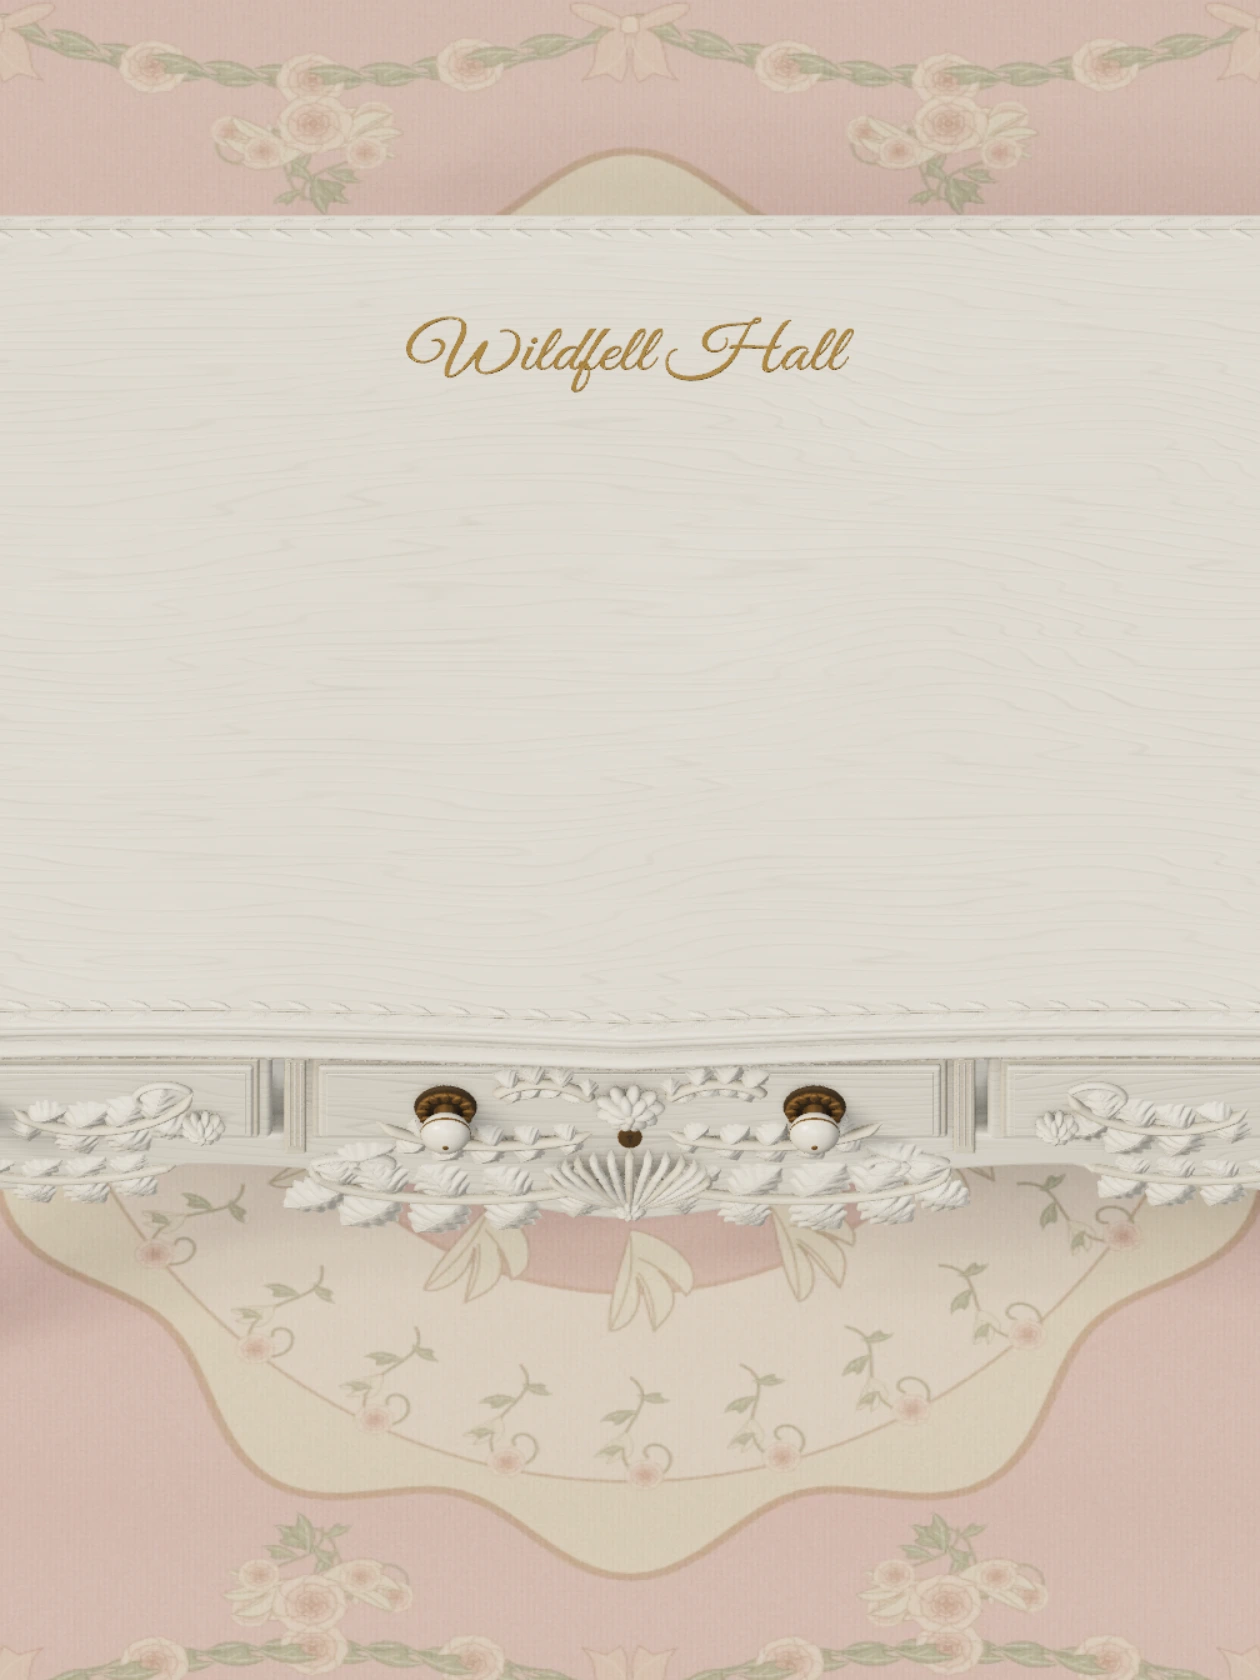
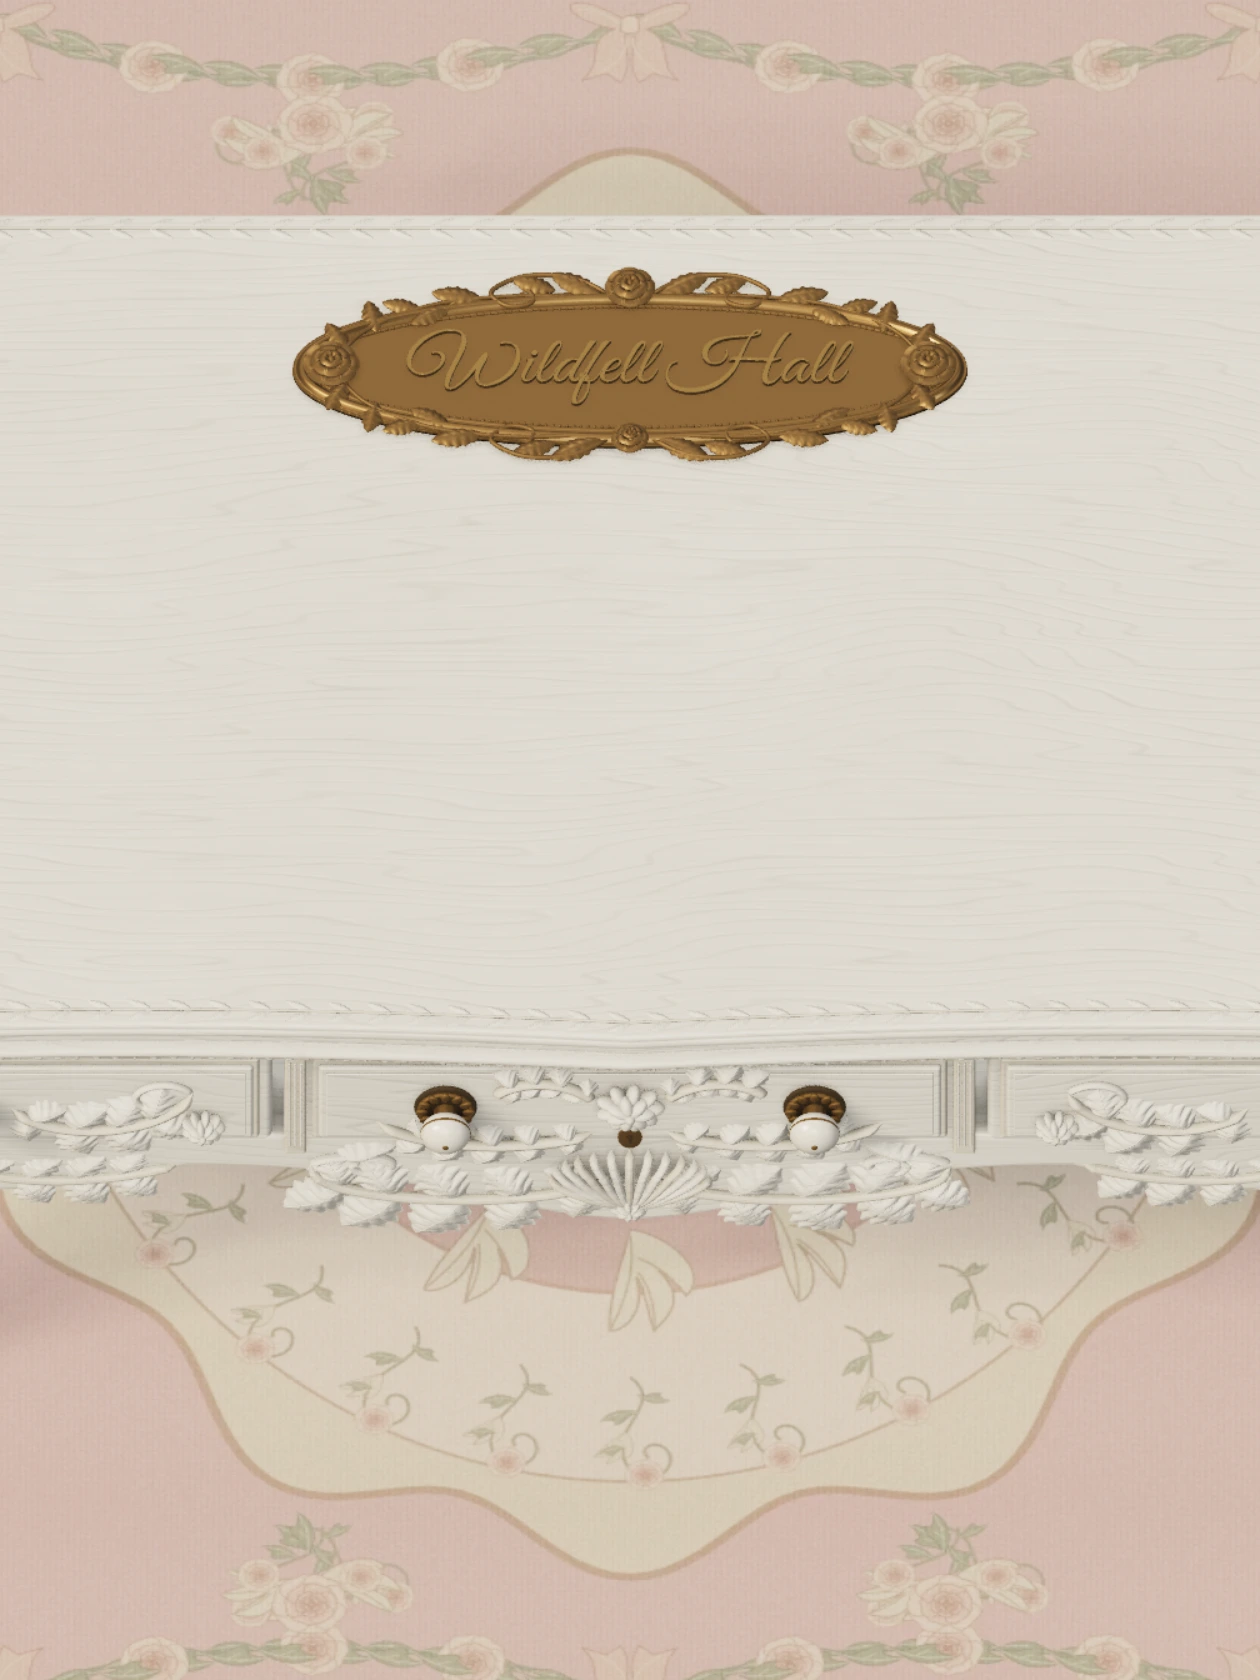
Add an embossed floral brass crest to the writing desk

Changed region(s): [[0.2167, 0.1548, 0.7738, 0.2786]]

diff --git a/src/name-crest.js b/src/name-crest.js
@@ -1,0 +1,187 @@
+import * as THREE from 'three';
+import { mergeGeometries } from 'three/addons/utils/BufferGeometryUtils.js';
+
+// All of the metalwork is modelled in the plaque's plane, with +Z facing out.
+// The containing group places this plane flat on the writing surface.
+function ovalMolding(rx, ry) {
+  const profile = [[-.057, .032], [-.057, .059], [-.043, .071], [-.030, .064],
+    [-.016, .055], [0, .069], [.018, .093], [.038, .098], [.060, .080],
+    [.073, .056], [.083, .048], [.091, .055], [.100, .050], [.102, .023]];
+  const segments = 320, positions = [], uv = [], indices = [], n = profile.length;
+  for (let i = 0; i < segments; i++) {
+    const angle = i / segments * Math.PI * 2, c = Math.cos(angle), s = Math.sin(angle);
+    const normal = new THREE.Vector2(c / rx, s / ry).normalize();
+    for (let j = 0; j < n; j++) {
+      const [offset, z] = profile[j], x = rx * c + normal.x * offset, y = ry * s + normal.y * offset;
+      positions.push(x, y, z); uv.push(x * 2, y * 2);
+      const a = i * n + j, b = (i + 1) % segments * n + j;
+      const d = (i + 1) % segments * n + (j + 1) % n, e = i * n + (j + 1) % n;
+      indices.push(a, e, b, b, e, d);
+    }
+  }
+  const geometry = new THREE.BufferGeometry();
+  geometry.setAttribute('position', new THREE.Float32BufferAttribute(positions, 3));
+  geometry.setAttribute('uv', new THREE.Float32BufferAttribute(uv, 2));
+  geometry.setIndex(indices); geometry.computeVertexNormals();
+  return geometry;
+}
+
+// Close both sides of the curled petals and leaves. Their turned edges have
+// actual thickness, so oblique views never reveal a missing back face.
+function reliefSurface(rows, columns, surface, thickness) {
+  const positions = [], uv = [], indices = [];
+  for (let i = 0; i <= rows; i++) for (let j = 0; j <= columns; j++) {
+    const t = (i + .01) / (rows + .02), s = j / columns * 2 - 1;
+    positions.push(...surface(t, s)); uv.push(t, j / columns);
+  }
+  const count = positions.length / 3;
+  for (let i = 0; i < count; i++) {
+    positions.push(positions[i * 3], positions[i * 3 + 1], positions[i * 3 + 2] - thickness);
+    uv.push(uv[i * 2], uv[i * 2 + 1]);
+  }
+  for (let i = 0; i < rows; i++) for (let j = 0; j < columns; j++) {
+    const a = i * (columns + 1) + j, b = a + columns + 1;
+    indices.push(a, b, a + 1, b, b + 1, a + 1,
+      a + count, a + 1 + count, b + count, b + count, a + 1 + count, b + 1 + count);
+  }
+  const edge = [];
+  for (let i = 0; i <= rows; i++) edge.push(i * (columns + 1));
+  for (let j = 1; j <= columns; j++) edge.push(rows * (columns + 1) + j);
+  for (let i = rows - 1; i >= 0; i--) edge.push(i * (columns + 1) + columns);
+  for (let j = columns - 1; j > 0; j--) edge.push(j);
+  // Keep the lip normals separate from the two broad surfaces. Averaging
+  // opposite faces through a thin edge would turn highlights inside out.
+  const wall = positions.length / 3;
+  for (const vertex of edge) for (const offset of [0, count]) {
+    const i = vertex + offset;
+    positions.push(positions[i * 3], positions[i * 3 + 1], positions[i * 3 + 2]);
+    uv.push(uv[i * 2], uv[i * 2 + 1]);
+  }
+  for (let i = 0; i < edge.length; i++) {
+    const a = wall + i * 2, b = wall + (i + 1) % edge.length * 2;
+    indices.push(a, a + 1, b, b, a + 1, b + 1);
+  }
+  const geometry = new THREE.BufferGeometry();
+  geometry.setAttribute('position', new THREE.Float32BufferAttribute(positions, 3));
+  geometry.setAttribute('uv', new THREE.Float32BufferAttribute(uv, 2));
+  geometry.setIndex(indices); geometry.computeVertexNormals();
+  return geometry;
+}
+
+function leafGeometry(length, width) {
+  return reliefSurface(28, 14, (t, s) => {
+    const envelope = Math.pow(Math.sin(Math.PI * t), .75);
+    const lobes = 1 + .09 * Math.sin(t * Math.PI * 12);
+    const shoulder = Math.pow(1 - s * s, 1.2);
+    let veins = 0;
+    for (const fork of [.22, .40, .58, .74]) veins += Math.exp(-Math.pow((t - fork - Math.abs(s) * .17) / .025, 2));
+    const z = .032 * envelope * shoulder + .008 * Math.pow(t, 3)
+      - .004 * veins * Math.sin(Math.PI * Math.abs(s)) * envelope * shoulder;
+    return [t * length, s * width * envelope * lobes, z];
+  }, .009);
+}
+
+function workedMetal() {
+  const pixels = new Uint8Array(256 * 128 * 4); let seed = 1873;
+  for (let y = 0; y < 128; y++) for (let x = 0; x < 256; x++) {
+    seed = (Math.imul(seed, 1664525) + 1013904223) >>> 0;
+    const value = 189 + (seed / 4294967296 - .5) * 18 + Math.sin(x * .1 + y * .3) * 3;
+    pixels.set([value, value, value, 255], (y * 256 + x) * 4);
+  }
+  const texture = new THREE.DataTexture(pixels, 256, 128);
+  texture.wrapS = texture.wrapT = THREE.RepeatWrapping;
+  texture.minFilter = THREE.LinearMipmapLinearFilter; texture.magFilter = THREE.LinearFilter;
+  texture.generateMipmaps = true; texture.needsUpdate = true;
+  return texture;
+}
+
+export function createNameCrestMetalwork(brass) {
+  const group = new THREE.Group(); group.name = 'oval-floral-name-crest';
+  // Match the desk hardware's alloy; only the surface finish varies between
+  // the satin field, cast foliage, and lightly burnished rims and letter faces.
+  const texture = workedMetal(), cast = brass.clone();
+  cast.roughnessMap = cast.bumpMap = texture; cast.roughness = .55; cast.bumpScale = .00055;
+  const satin = cast.clone(); satin.roughness = .79;
+  const burnished = cast.clone(); burnished.roughness = .40;
+  function mesh(geometry, material, name) {
+    const object = new THREE.Mesh(geometry, material); object.name = name;
+    object.castShadow = object.receiveShadow = true; group.add(object); return object;
+  }
+  const oval = new THREE.Shape(); oval.absellipse(0, 0, 2.40, .66, 0, Math.PI * 2, false);
+  mesh(new THREE.ExtrudeGeometry(oval, { depth: .041, bevelEnabled: true, bevelSize: .012,
+    bevelThickness: .010, bevelSegments: 5, curveSegments: 120 }), satin, 'solid-oval-plaque');
+  mesh(ovalMolding(2.35, .61), burnished, 'continuous-oval-molding');
+
+  const foliage = [], flowers = [];
+  function add(geometry, x = 0, y = 0, z = .064, angle = 0, batch = foliage) {
+    geometry.rotateZ(angle); geometry.translate(x, y, z);
+    if (geometry.index) { const flat = geometry.toNonIndexed(); geometry.dispose(); geometry = flat; }
+    const p = geometry.attributes.position, uv = geometry.attributes.uv;
+    for (let i = 0; i < p.count; i++) uv.setXY(i, p.getX(i) * 2, p.getY(i) * 2);
+    batch.push(geometry);
+  }
+  function leaf(x, y, angle, length, width, sx, sy) {
+    add(leafGeometry(length, width), sx * x, sy * y, .073,
+      Math.atan2(sy * Math.sin(angle), sx * Math.cos(angle)));
+  }
+  function scroll(points, sx, sy, radius = .019) {
+    const curve = new THREE.CatmullRomCurve3(points.map(([x, y, z = .079]) => new THREE.Vector3(x * sx, y * sy, z)));
+    const geometry = new THREE.TubeGeometry(curve, 72, radius, 10, false), p = geometry.attributes.position;
+    // Tuck the tapered endpoints into the casting, avoiding blunt wire ends.
+    for (let row = 0; row <= 72; row++) {
+      const t = row / 72, center = curve.getPointAt(t);
+      const taper = .18 + .82 * THREE.MathUtils.smoothstep(t, 0, .07) * THREE.MathUtils.smoothstep(1 - t, 0, .08);
+      for (let col = 0; col <= 10; col++) {
+        const i = row * 11 + col;
+        p.setXYZ(i, center.x + (p.getX(i) - center.x) * taper, center.y + (p.getY(i) - center.y) * taper,
+          center.z + (p.getZ(i) - center.z) * taper - radius * (1 - taper));
+      }
+    }
+    geometry.computeVertexNormals(); add(geometry, 0, 0, 0);
+  }
+  function rose(x, y, radius) {
+    // Overlapping cupped petals turn outward at the lip; concentric offsets
+    // open a shadowed centre instead of piling ellipsoids into a rosette.
+    for (const [count, inner, outer, z, lift] of [[8, .38, 1, .012, .043], [6, .16, .72, .041, .054], [5, .035, .40, .071, .052]]) {
+      for (let i = 0; i < count; i++) {
+        const angle = i * Math.PI * 2 / count + outer * 2.4;
+        const petal = reliefSurface(16, 20, (t, s) => {
+          const a = angle + s * Math.PI / count * 1.24 * (.48 + .52 * Math.sin(t * Math.PI / 2));
+          const r = radius * (inner + (outer - inner) * t) * (1 - .09 * Math.pow(Math.abs(s), 3));
+          return [Math.cos(a) * r, Math.sin(a) * r,
+            z + lift * Math.sin(t * Math.PI * .85) + .016 * Math.pow(t, 5) + .012 * Math.pow(Math.abs(s), 4) * Math.sin(t * Math.PI)];
+        }, .008);
+        add(petal, x, y, .065, 0, flowers);
+      }
+    }
+    const bud = new THREE.SphereGeometry(1, 20, 12); bud.scale(radius * .12, radius * .15, .026);
+    add(bud, x, y, .166, .3, flowers);
+  }
+  for (const sx of [-1, 1]) for (const sy of [-1, 1]) {
+    scroll([[.13, .65], [.42, .81], [.79, .82], [1.01, .67], [.88, .55], [.70, .60], [.74, .69], [.83, .66]], sx, sy);
+    scroll([[.32, .64], [.92, .64], [1.48, .55], [1.92, .33], [2.12, .10]], sx, sy, .016);
+    leaf(.20, .65, .49, .43, .087, sx, sy);
+    leaf(.54, .70, .32, .34, .077, sx, sy);
+    leaf(1.06, .61, .18, .39, .085, sx, sy);
+    leaf(1.30, .56, -.53, .34, .075, sx, sy);
+    leaf(1.50, .51, .26, .31, .069, sx, sy);
+    leaf(1.84, .32, 1.35, .29, .074, sx, sy);
+    leaf(2.05, .14, 1.03, .30, .078, sx, sy);
+  }
+  rose(0, .70, .185); rose(0, -.68, .137);
+  for (const sx of [-1, 1]) rose(sx * 2.17, 0, .205);
+  mesh(mergeGeometries(foliage), cast, 'rose-leaves-and-scrolled-stems');
+  mesh(mergeGeometries(flowers), cast, 'layered-cast-rose-petals');
+  [...foliage, ...flowers].forEach(geometry => geometry.dispose());
+
+  const beads = new THREE.InstancedMesh(new THREE.SphereGeometry(.012, 10, 8), burnished, 192);
+  beads.name = 'oval-pearl-fillet'; beads.castShadow = beads.receiveShadow = true;
+  const outline = new THREE.EllipseCurve(0, 0, 2.29, .55), matrix = new THREE.Matrix4();
+  // Arc-length spacing avoids crowded beads at the pointed ends of the oval.
+  for (let i = 0; i < beads.count; i++) {
+    const p = outline.getPointAt(i / beads.count);
+    matrix.makeTranslation(p.x, p.y, .066); beads.setMatrixAt(i, matrix);
+  }
+  group.add(beads);
+  return group;
+}

diff --git a/src/ornaments.js b/src/ornaments.js
@@ -2,58 +2,31 @@ import * as THREE from 'three';
 import { SVGLoader } from 'three/addons/loaders/SVGLoader.js';
 import { mergeGeometries } from 'three/addons/utils/BufferGeometryUtils.js';
 import { desktopOutline, perimeterFrame, legProfile } from './furniture-profiles.js';
+import { createNameCrestMetalwork } from './name-crest.js';
 
-function giltFinish() {
-  const w = 512, h = 128, colour = new Uint8Array(w * h * 4), roughness = new Uint8Array(w * h * 4), relief = new Uint8Array(w * h * 4);
-  let seed = 1848;
-  const random = () => { seed = (Math.imul(seed, 1664525) + 1013904223) >>> 0; return seed / 4294967296; };
-  for (let y = 0; y < h; y++) for (let x = 0; x < w; x++) {
-    const i = (y * w + x) * 4, n = random() - .5;
-    const burnish = Math.sin(x * .13 + Math.sin(y * .09)) * 2 + Math.sin(y * .3) * 1.6;
-    const join = x % 93 === 0 ? 5 : 0;
-    colour.set([204 + n * 9 + burnish - join, 163 + n * 8 + burnish - join, 83 + n * 6 + burnish - join, 255], i);
-    roughness.set([130 + n * 30 + join, 130 + n * 30 + join, 130 + n * 30 + join, 255], i);
-    relief.set([128 + n * 22 + burnish, 128 + n * 22 + burnish, 128 + n * 22 + burnish, 255], i);
-  }
-  const textures = [colour, roughness, relief].map(data => {
-    const texture = new THREE.DataTexture(data, w, h);
-    texture.wrapS = texture.wrapT = THREE.RepeatWrapping;
-    texture.minFilter = THREE.LinearMipmapLinearFilter; texture.magFilter = THREE.LinearFilter;
-    texture.generateMipmaps = true; texture.needsUpdate = true;
-    return texture;
-  });
-  textures[0].colorSpace = THREE.SRGBColorSpace;
-  return textures;
-}
-
-export async function createEmbossing(surfaceY) {
+export async function createEmbossing(surfaceY, brass) {
   const svg = await new SVGLoader().loadAsync(`${import.meta.env.BASE_URL}ornaments/wildfell-hall.svg`);
   const geometry = new THREE.ExtrudeGeometry(svg.paths.flatMap(path => SVGLoader.createShapes(path)), {
-    depth: 1.7, bevelEnabled: true, bevelThickness: .65, bevelSize: .62, bevelSegments: 5, curveSegments: 24,
+    depth: 4, bevelEnabled: true, bevelThickness: 1, bevelSize: .62, bevelSegments: 5, curveSegments: 24,
   });
   geometry.computeBoundingBox();
   const box = geometry.boundingBox, center = box.getCenter(new THREE.Vector3());
   const scale = 3.25 / (box.max.x - box.min.x);
   geometry.translate(-center.x, -center.y, 0);
-  geometry.scale(scale, -scale, scale);
-  reverseWinding(geometry);
-  geometry.rotateX(-Math.PI / 2);
-  geometry.computeVertexNormals();
-  geometry.computeBoundingBox();
-  const extents = geometry.boundingBox, positions = geometry.attributes.position, uv = geometry.attributes.uv;
-  for (let i = 0; i < positions.count; i++) uv.setXY(i,
-    (positions.getX(i) - extents.min.x) / (extents.max.x - extents.min.x),
-    (positions.getZ(i) - extents.min.z) / (extents.max.z - extents.min.z));
-  const [map, roughnessMap, bumpMap] = giltFinish();
-  const face = new THREE.MeshStandardMaterial({ map, roughnessMap, bumpMap, bumpScale: .0006, metalness: .92, roughness: .72, envMapIntensity: 1.15 });
-  const bevel = new THREE.MeshStandardMaterial({ color: '#a77d3c', metalness: .9, roughness: .32, envMapIntensity: 1.05 });
+  geometry.scale(scale, -scale, .022 / 4);
+  reverseWinding(geometry); geometry.computeVertexNormals();
+  const face = brass.clone(); face.color.set('#c9a259'); face.metalness = .92; face.roughness = .34;
+  const bevel = brass.clone(); bevel.roughness = .31;
   const lettering = new THREE.Mesh(geometry, [face, bevel]);
-  // The lower bevel beds into the timber; only the thin gilded crown rises
-  // above the surface. No duplicate outline or floating backing plate.
-  lettering.position.set(0, surfaceY + .0004, -2.52);
+  lettering.position.z = .052;
   lettering.name = 'burnished-gold-script-with-beveled-edges';
   lettering.castShadow = lettering.receiveShadow = true;
-  return lettering;
+  const crest = createNameCrestMetalwork(brass);
+  crest.add(lettering); crest.rotation.x = -Math.PI / 2;
+  // Bed the plaque's back bevel into the timber. The inscription and flowers
+  // belong to the same physical object and receive the room's actual light.
+  crest.position.set(0, surfaceY + .004, -2.35);
+  return crest;
 }
 
 function reverseWinding(geometry) {

diff --git a/index.html b/index.html
@@ -13,13 +13,13 @@
     <main id="room" aria-label="An antique white wooden writing desk">
       <div id="desk-fallback" aria-hidden="true">
         <picture>
-          <source media="(min-aspect-ratio: 3/2)" srcset="./materials/desk-still-wide.webp?v=relief-6" />
-          <source media="(max-aspect-ratio: 3/4)" srcset="./materials/desk-still-portrait.webp?v=relief-6" />
-          <img src="./materials/desk-still.webp?v=relief-6" alt="" fetchpriority="high" />
+          <source media="(min-aspect-ratio: 3/2)" srcset="./materials/desk-still-wide.webp?v=crest-1" />
+          <source media="(max-aspect-ratio: 3/4)" srcset="./materials/desk-still-portrait.webp?v=crest-1" />
+          <img src="./materials/desk-still.webp?v=crest-1" alt="" fetchpriority="high" />
         </picture>
       </div>
       <h1 class="sr-only">Wildfell Hall</h1>
-      <canvas id="desk" aria-describedby="desk-help" aria-label="An elevated view of an antique ivory writing desk, with visible wood grain, carved drawers, porcelain and brass knobs, cabriole legs, gold script, and a light pink floral carpet"></canvas>
+      <canvas id="desk" aria-describedby="desk-help" aria-label="An elevated view of an antique ivory writing desk, with visible wood grain, carved drawers, porcelain and brass knobs, cabriole legs, a brass oval crest with embossed gold script, roses and leaves, and a light pink floral carpet"></canvas>
       <p id="desk-help" class="sr-only">Scroll, pinch, or use the plus and minus keys to zoom. Drag or use the arrow keys to inspect the desk. Press Home or use Reset view to return to the starting view. Click or tap a drawer to open or close it, or Tab to its knob and press Enter or Space.</p>
       <div id="drawer-controls" role="group" aria-label="Desk drawers" hidden>
         <button class="drawer-hotspot" aria-label="Open left drawer" aria-expanded="false"></button>

diff --git a/src/desk.js b/src/desk.js
@@ -148,7 +148,7 @@ export async function createDesk(renderer) {
   const keyplate = mesh(new THREE.SphereGeometry(1, 24, 16), brass, 0, -1.30, 3.50, centre); keyplate.scale.set(.09, .13, .018);
   mesh(new THREE.CircleGeometry(.025, 16), bronze, 0, -1.27, 3.522, centre);
   block(.025, .065, .006, 0, -1.31, 3.524, bronze, .004, centre);
-  group.add(createCarvings(paint, edge, recess, drawers.map(drawer => drawer.group)), await createEmbossing(DESK.surfaceY));
+  group.add(createCarvings(paint, edge, recess, drawers.map(drawer => drawer.group)), await createEmbossing(DESK.surfaceY, brass));
   applyWoodCoordinates(group);
   return { group, writingSurface, drawers };
 }
